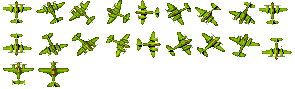
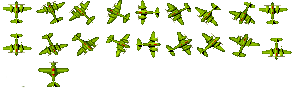
medium green triple

Changed region(s): [[0.0, 0.6966, 0.122, 0.9888]]

diff --git a/src/AnimatorHolder.cpp b/src/AnimatorHolder.cpp
@@ -551,7 +551,15 @@ void triggerMedGreyTripleAnimator(){
 	assert(animator);
 	animator->start(Game::getGameTime());
 }
+void triggerMedGreenTripleEngAnimator(){
+	static int nameId = 0;
+	string name = "MedGreenTripleEngAnimator" + std::to_string(nameId);
+	nameId++;
 
+	MovingPathAnimator* animator = (MovingPathAnimator*)AnimatorHolder::getAnimatorHolder()->getAnimator(name);
+	assert(animator);
+	animator->start(Game::getGameTime());
+}
 void AnimatorHolder::startTimeTickAnimators(){
     
     //SuperAce
@@ -573,6 +581,8 @@ void AnimatorHolder::startTimeTickAnimators(){
 	//medium plane
 	TimerTickAnimator::startTimeTickAnimator("medGreenDoubleEngTickAnimation", triggerMedGreenDoubleEngAnimator);
 	TimerTickAnimator::startTimeTickAnimator("medGreenSingleEngTickAnimation", triggerMedGreenSingleEngAnimator);
+	TimerTickAnimator::startTimeTickAnimator("medGreenTripleEngTickAnimation", triggerMedGreenTripleEngAnimator);
+
 
 	TimerTickAnimator::startTimeTickAnimator("medGreyDoubleEngTickAnimation", triggerMedGreyDoubleAnimator);	
 	TimerTickAnimator::startTimeTickAnimator("medGreySingleEngTickAnimation", triggerMedGreySingleAnimator);

diff --git a/src/Sprite.cpp b/src/Sprite.cpp
@@ -9,7 +9,14 @@ Sprite::Sprite(){
 
 Sprite::Sprite(std::string id, unsigned  frameNo,SDL_Rect dstRect,SDL_Point point,bool isVisible,SpriteType type,AnimationFilm* currFilm){
    
-    assert( id!="" && frameNo>=0 && type>=0 && type<SpriteType(SPRITE_TYPE_SIZE) && currFilm);
+   // assert( id!="" && frameNo>=0 && type>=0 && type<SpriteType(SPRITE_TYPE_SIZE) && currFilm);
+	
+	assert(frameNo >= First_SpriteType);
+	assert(type <= Last_SpriteType);
+	assert(type >= 0);
+	assert(currFilm);
+	assert(id != "");
+
 
     setId(id);
     setCurrFilm(currFilm);

diff --git a/src/Sprite.hpp b/src/Sprite.hpp
@@ -18,7 +18,10 @@ typedef enum SpriteType {
     ALIEN_SHIP = 4,
     POWER_UPS = 5,
     GAME_INFO = 6,
-    UNDEFINED = 7 
+    UNDEFINED = 7 ,
+	First_SpriteType = MAIN_MENU_SINGLEPLAYER,
+	Last_SpriteType = UNDEFINED
+
 }SpriteType;
 
 typedef enum SpriteState {
